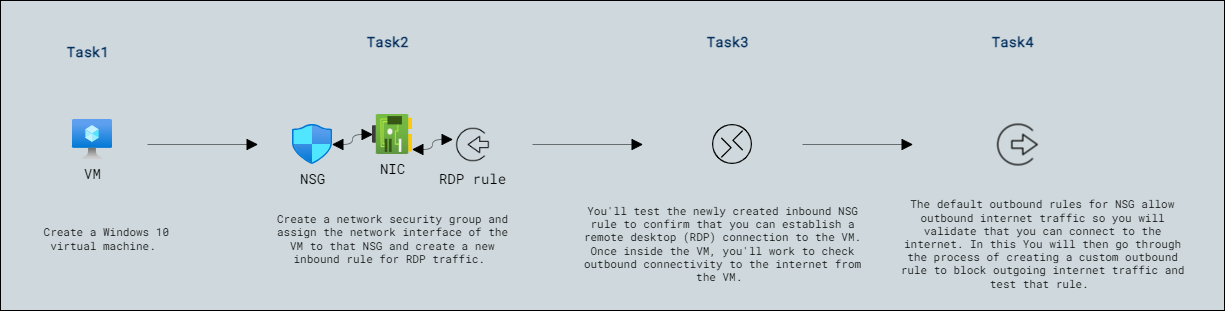
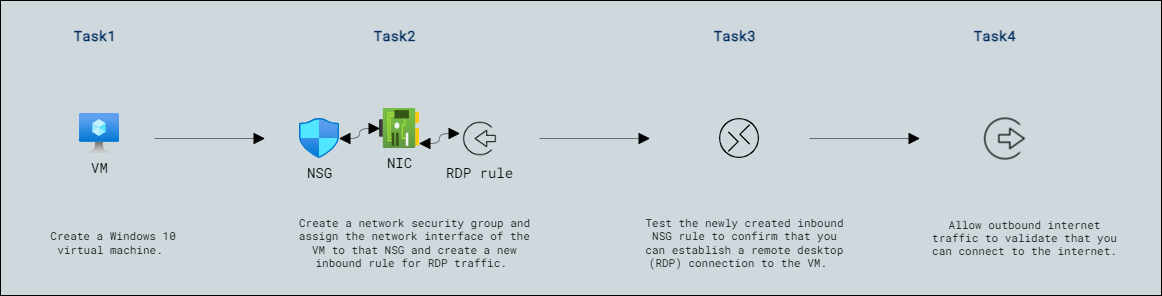
updated

diff --git a/Instructions/Lab-Scenario-Preview/Module05.md b/Instructions/Lab-Scenario-Preview/Module05.md
@@ -8,13 +8,13 @@ In this lab, you will explore the function of network security groups in Azure. 
 
 After completing this lab, you will be able to:
 
-- You will create a Windows 10 virtual machine.
+- Create a Windows 10 virtual machine.
 
 - Create a network security group and assign the network interface of the VM to that NSG.nd create a new inbound rule for RDP traffic.
 
-- You will test the newly created inbound NSG rule to confirm that you can establish a remote desktop (RDP) connection to the VM.  Once inside the VM you'll work check outbound connectivity to the internet from the VM.  
+- Test the newly created inbound NSG rule to confirm that you can establish a remote desktop (RDP) connection to the VM. 
 
-- The default outbound rules for NSG allow outbound internet traffic so you will validate that you can connect to the internet. In this You will then go through the process of creating a custom outbound rule to block outgoing internet traffic and test that rule. 
+- Allow outbound internet traffic to validate that you can connect to the internet.
 
 ## Architecture Diagram
 

diff --git a/Instructions/Lab-Scenario-Preview/Module13.md b/Instructions/Lab-Scenario-Preview/Module13.md
@@ -10,9 +10,9 @@ After completing this lab, you will be able to:
 
 - Explore the capabilities of sensitivity labels.
 
-- Applying a label from the perspective of the user and viewing the content marking that is generated by the label.
+- How to apply a label.
 
-- Sending the document to an email address to which you have access. (ie., a personal email address)
+- Impact of that label.
 
 
 ## Architecture Diagram
